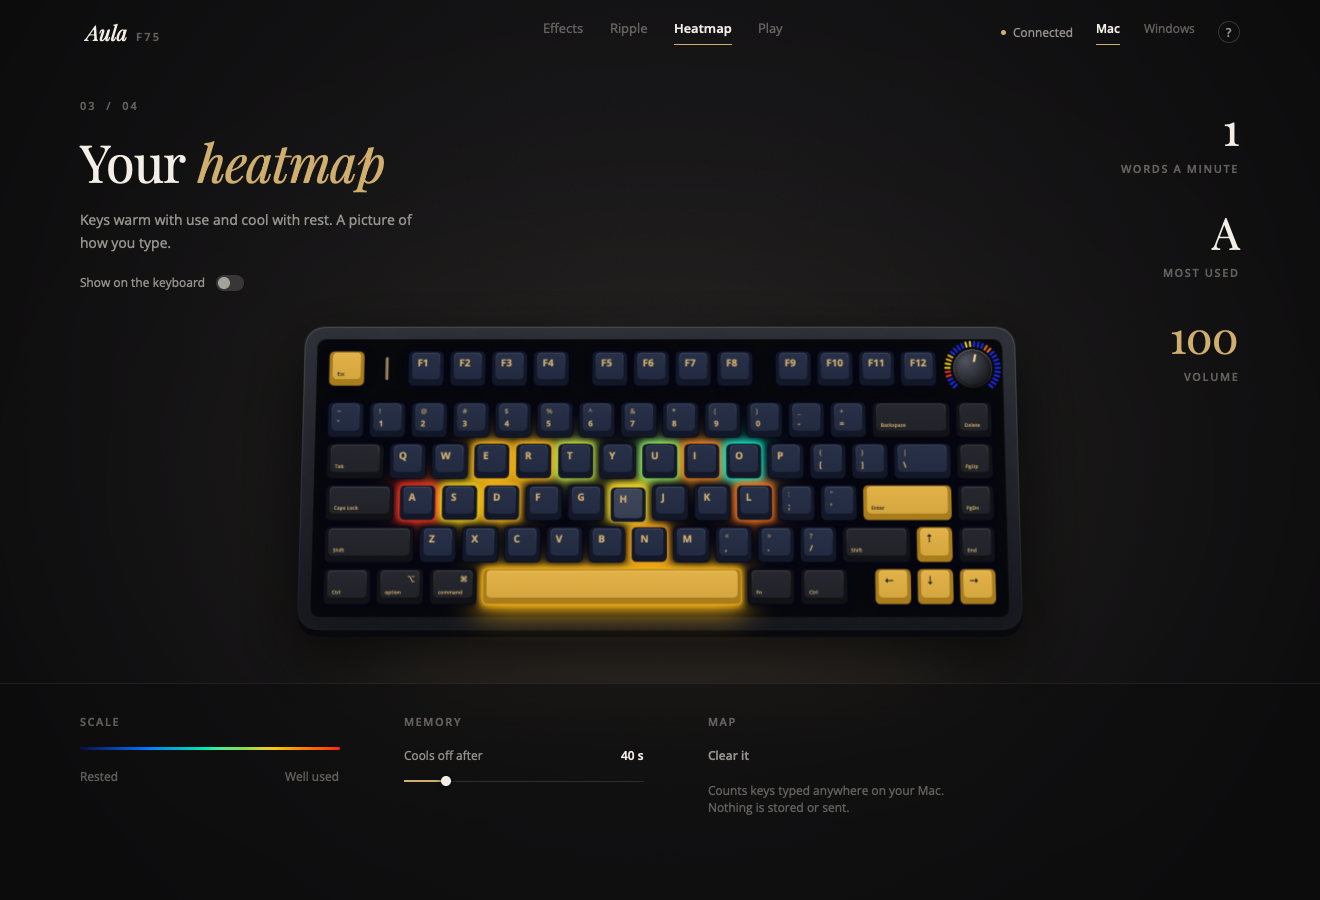
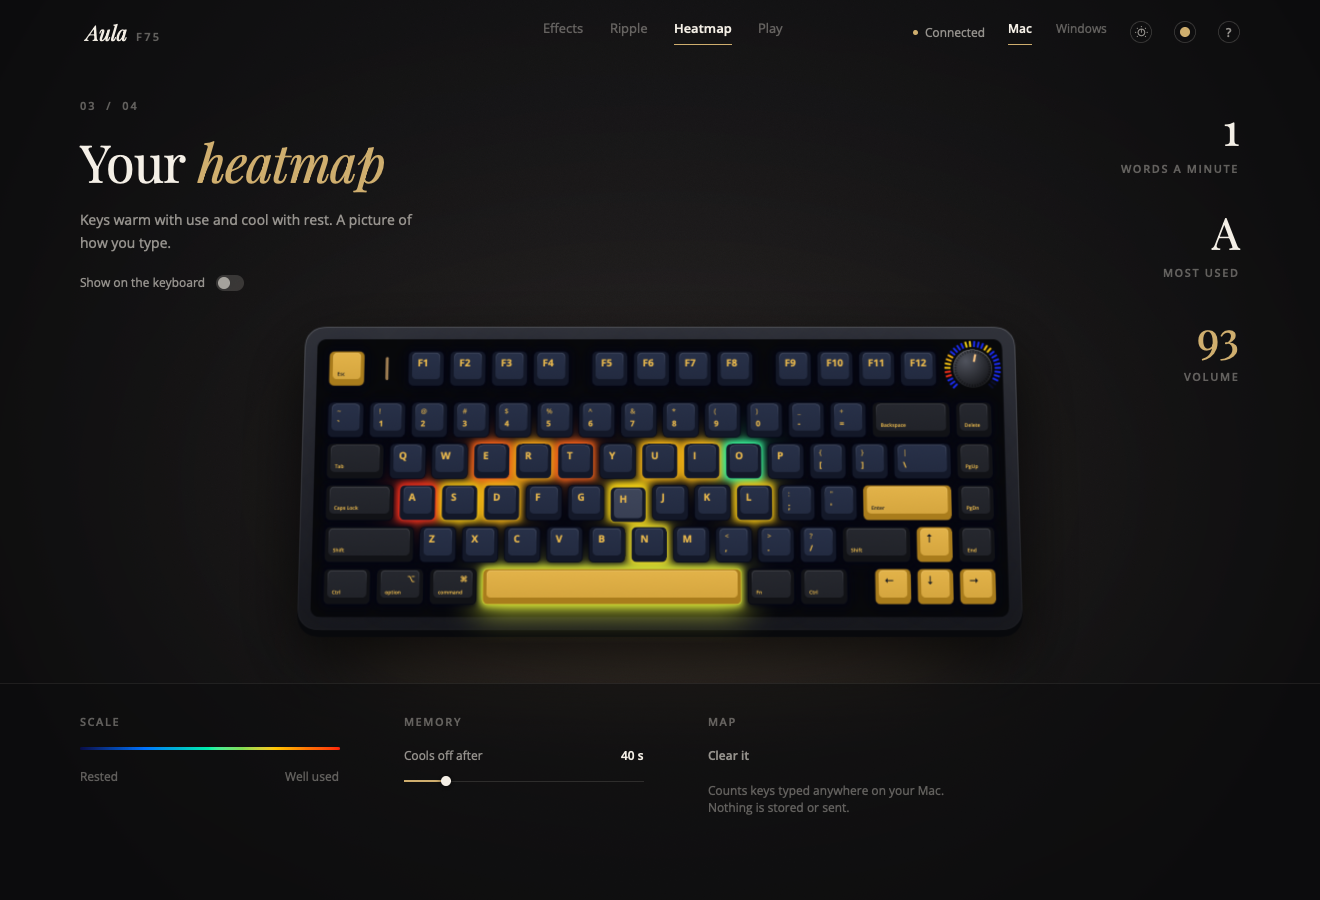
README: show the dial and light/dark themes
New screenshots of the dial (tools, what's playing, apps) and of the
light theme, using demo content rather than this Mac's own apps and music.

Changed region(s): [[0.3417, 0.4667, 0.5902, 0.6844], [0.7144, 0.0311, 0.9008, 0.0622], [0.8697, 0.3422, 0.9318, 0.4044]]

diff --git a/Dial.swift b/Dial.swift
@@ -203,8 +203,16 @@ final class Dial: ObservableObject {
     /// Developer aid for snapshots: the ring in a given state, without the knob.
     func preview(apps: Bool, index: Int) {
         inApps = apps
-        let many = ProcessInfo.processInfo.environment["AULA_MANY_APPS"] != nil  // preview: a long list
-        let apps_ = many ? Dial.dockApps() + Dial.dockApps() : Dial.dockApps()
+        let env = ProcessInfo.processInfo.environment
+        let many = env["AULA_MANY_APPS"] != nil  // preview: a long list
+        // Public screenshots: standard Mac apps instead of this Mac's own Dock.
+        let demo = env["AULA_DEMO"] != nil
+            ? ["Messages", "Mail", "Music", "Notes", "Calendar", "Photos", "Maps"]
+                .map { URL(fileURLWithPath: "/System/Applications/\($0).app") }
+                .map { FileManager.default.fileExists(atPath: $0.path) ? $0 : URL(fileURLWithPath: "/Applications/Safari.app") }
+            : nil
+        let base = demo ?? Dial.dockApps()
+        let apps_ = many ? base + base : base
         items = apps ? apps_.map { .app($0) } + [.back] : Dial.mainItems
         self.index = index
         spin = index
@@ -212,6 +220,9 @@ final class Dial: ObservableObject {
     }
 
     func previewReadout() { readout = (.volume, 0.62, "62%") }
+
+    /// Public screenshots: a made-up track instead of what's really playing.
+    func previewTrack() { nowPlaying = NowPlayingInfo(title: "Northern Lights", artist: "Sample Artist", app: "com.apple.Music", playing: true) }
 
     /// Shows the track summary in the centre for these items.
     var showsTrack: Bool {

diff --git a/App.swift b/App.swift
@@ -1124,10 +1124,15 @@ enum Entry {
             Theme.current = Theme(dark: c.appearance != .light, accentChoice: c.accent)
             let track = ProcessInfo.processInfo.environment["AULA_TRACK"] != nil
             c.dial.preview(apps: mode == 4, index: track ? 4 : 1)
-            if track { c.dial.refreshNowPlaying(); RunLoop.main.run(until: Date().addingTimeInterval(1.5)) }
-            let host = NSHostingView(rootView: DialRing(dial: c.dial).frame(width: 360, height: 360).background(Color(white: 0.5)))
+            if track {
+                if ProcessInfo.processInfo.environment["AULA_DEMO"] != nil { c.dial.previewTrack() }
+                else { c.dial.refreshNowPlaying(); RunLoop.main.run(until: Date().addingTimeInterval(1.5)) }
+            }
+            let host = NSHostingView(rootView: DialRing(dial: c.dial).frame(width: 360, height: 360))
             host.frame = NSRect(x: 0, y: 0, width: 360, height: 360)
             let window = NSWindow(contentRect: host.frame, styleMask: [.borderless], backing: .buffered, defer: false)
+            window.isOpaque = false
+            window.backgroundColor = .clear
             window.contentView = host
             RunLoop.main.run(until: Date().addingTimeInterval(0.4))
             guard let rep = host.bitmapImageRepForCachingDisplay(in: host.bounds) else { return 1 }

diff --git a/README.md b/README.md
@@ -4,7 +4,7 @@
 
 The AULA F75 is made for Windows, so on a Mac the keys at the bottom left are in the wrong place: **Alt** is where **⌘ Command** should be, and **Win** is where **⌥ Option** should be. Aula Lights fixes that with one click. It also lets you change the keyboard's lights and use the round knob in new ways.
 
-![Aula Lights](docs/effects.png)
+![Aula Lights](docs/ripple.png)
 
 ## What you get
 
@@ -12,6 +12,25 @@ The AULA F75 is made for Windows, so on a Mac the keys at the bottom left are in
 - **Light effects.** All 18 of the keyboard's light shows, in any colour, brightness and speed.
 - **Fun extras.** Light that ripples out from every key you press, a "heatmap" of the keys you use most, and a little reaction game.
 - **The knob as a dial.** Click the knob to open a ring on screen: open apps, change the volume, skip songs, and more.
+
+## The knob as a dial
+
+Turn the round knob into a dial for your whole Mac. **Click the knob** and a ring appears on screen. **Turn** to move around it and **click** to choose.
+
+| Tools | Music | Apps |
+| --- | --- | --- |
+| ![The dial's tools](docs/dial-tools.png) | ![What's playing](docs/dial-music.png) | ![Your apps](docs/dial-apps.png) |
+| Volume, keyboard lights, screen brightness, play/pause and skipping songs. Turning the knob with the ring closed controls the one you picked. | Shows the song playing in any app (Spotify, Music, YouTube in your browser…). Turn once to skip one song. | Open any app from your Dock without leaving the keyboard. |
+
+Double-click the knob to mute. When Aula Lights isn't running, the knob is the normal volume knob again.
+
+## Light and dark
+
+Aula Lights comes in **dark** and **light**, or **Auto** to follow your Mac, with six accent colours to choose from.
+
+| Dark | Light |
+| --- | --- |
+| ![Dark](docs/effects.png) | ![Light](docs/light.png) |
 
 ## How to install
 
@@ -31,6 +50,7 @@ That's it. The Mac layout keeps working after restarts and reconnects.
 - **Mac or Windows layout:** the **Mac / Windows** switch at the top right of the app.
 - **Lights:** pick an effect, a colour and a brightness at the bottom of the app. Changes are saved on the keyboard itself.
 - **The knob dial:** click the **dial button** at the top right of the app to turn it on. Then click the knob to open the ring, turn to choose, and click to pick. Double-click the knob to mute.
+- **Light or dark:** click the **coloured dot** at the top right to pick Dark, Light or Auto, and an accent colour.
 
 ## Questions
 
